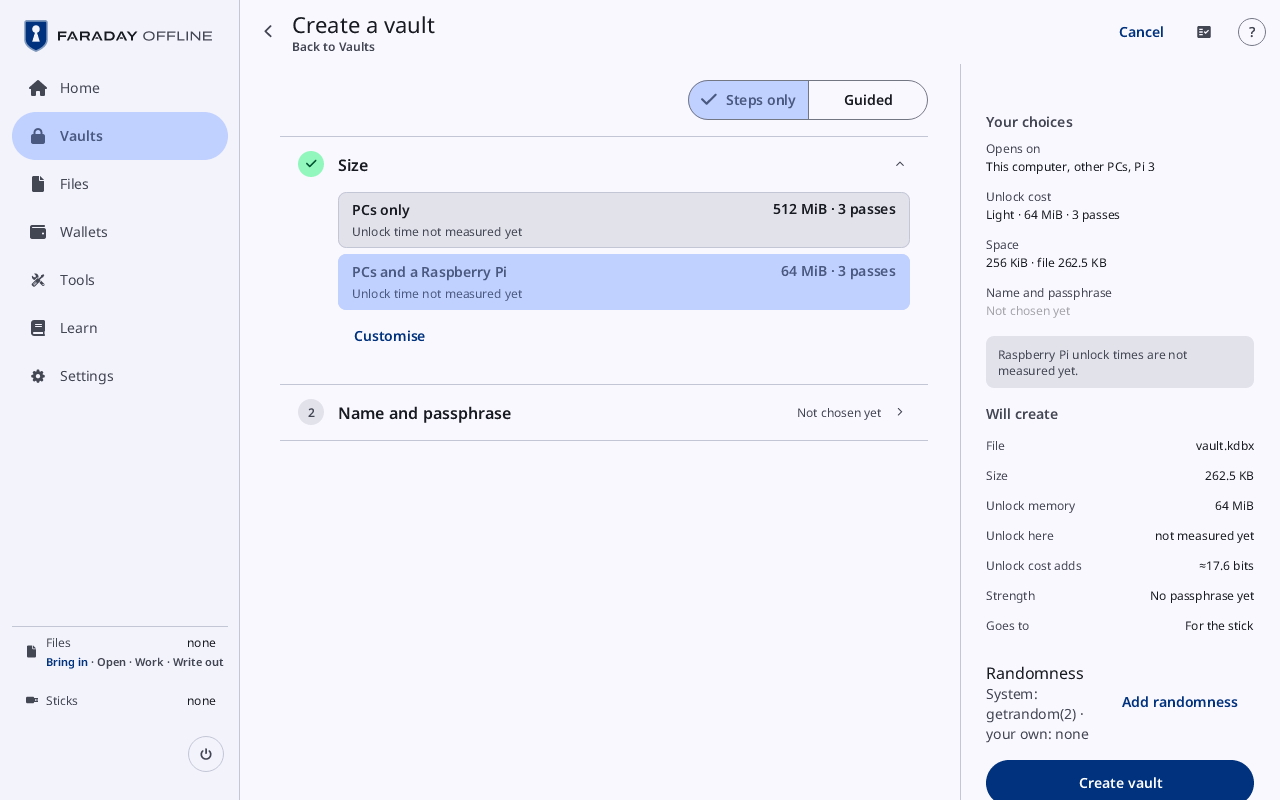
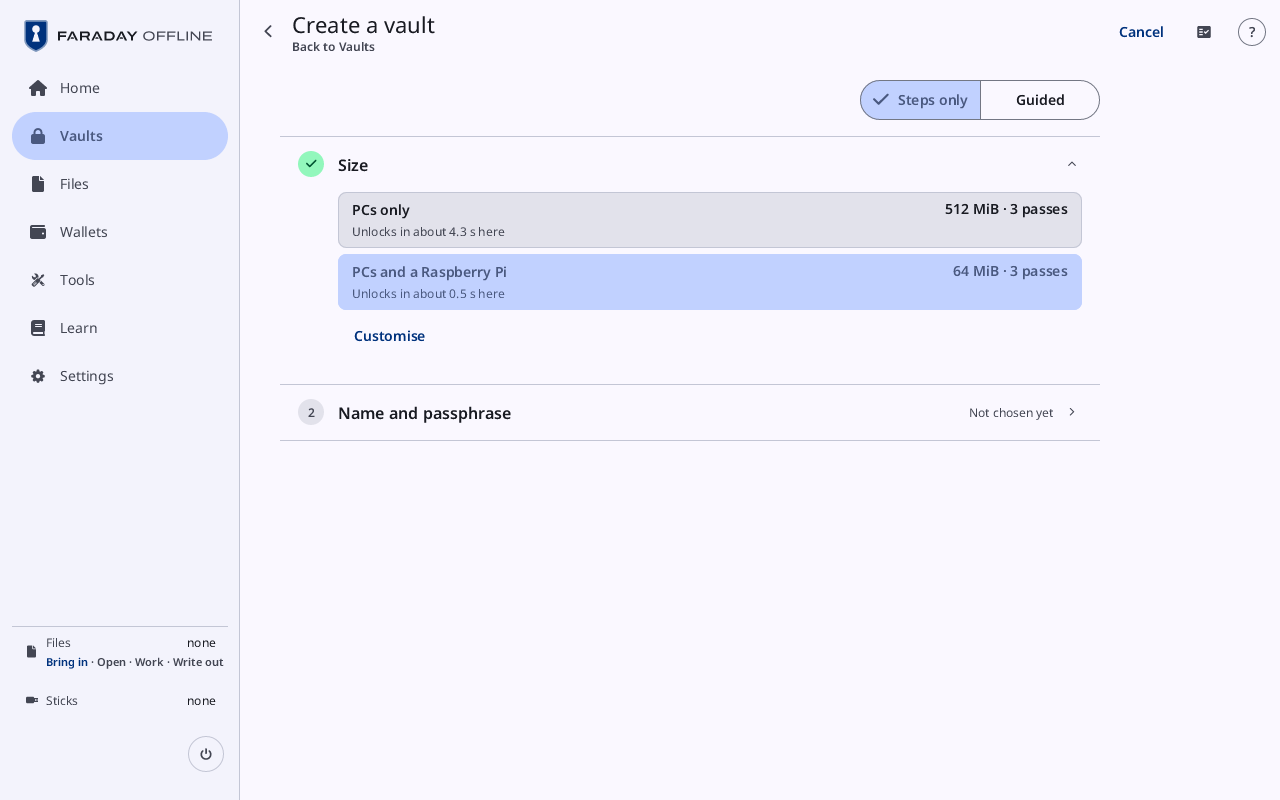
A lock wipes and drops the signing page's kept file text, and a measuring pass that cannot run records no unlock time; the Pi's two kernel patches of Faraday's own are decided (F221), the writeback-off run on the panel is recorded, and the create-vault size picture shows the unlock times the tours n
Claude-Session: https://claude.ai/code/session_01Nu65ePTqc1bXgpG4Eiv1ke

diff --git a/faraday/faraday-core/src/vault/stretch.rs b/faraday/faraday-core/src/vault/stretch.rs
@@ -521,7 +521,8 @@ pub(crate) struct MeasureWork;
 
 /// The measurement's answer: the milliseconds the pass took.
 pub(crate) struct MeasureDone {
-    ms: u64,
+    /// None where the pass could not run: no figure is recorded.
+    ms: Option<u64>,
 }
 
 impl MeasureWork {
@@ -547,16 +548,22 @@ impl MeasureWork {
             size: Some(faraday_vault::file::SIZES[0]),
         };
         let from = std::time::Instant::now();
-        faraday_keys::vault::measure(c, &facts);
+        let ran = faraday_keys::vault::measure(c, &facts);
         let took = from.elapsed();
         work::note_vault_took(
             VaultAct::Measured,
             cost,
-            VaultEnded::Ran,
+            match &ran {
+                Ok(()) => VaultEnded::Ran,
+                Err(faraday_vault::file::Error::Memory(_)) => VaultEnded::NoMemory,
+                Err(_) => VaultEnded::Refused,
+            },
             work::vault_clock().map(|_| took),
         );
         MeasureDone {
-            ms: u64::try_from(took.as_millis()).unwrap_or(u64::MAX).max(1),
+            ms: ran
+                .ok()
+                .map(|()| u64::try_from(took.as_millis()).unwrap_or(u64::MAX).max(1)),
         }
     }
 }
@@ -583,6 +590,24 @@ pub(crate) fn measured(app: &mut Faraday, done: MeasureDone) -> bool {
     if app.vaults.state.ms_per_unit.is_some() {
         return false;
     }
-    app.vaults.state.ms_per_unit = Some(done.ms);
+    let Some(ms) = done.ms else {
+        return false;
+    };
+    app.vaults.state.ms_per_unit = Some(ms);
     true
+}
+
+#[cfg(test)]
+mod tests {
+    use super::*;
+
+    /// A pass that could not run leaves no time to show.
+    #[test]
+    fn a_failed_measuring_pass_records_no_figure() {
+        let mut app = Faraday::new();
+        assert!(!measured(&mut app, MeasureDone { ms: None }));
+        assert_eq!(app.vaults.state.ms_per_unit, None);
+        assert!(measured(&mut app, MeasureDone { ms: Some(900) }));
+        assert_eq!(app.vaults.state.ms_per_unit, Some(900));
+    }
 }

diff --git a/faraday/faraday-core/src/gpg.rs b/faraday/faraday-core/src/gpg.rs
@@ -197,6 +197,18 @@ pub struct SignWrap {
     lines: std::rc::Rc<[(usize, usize)]>,
 }
 
+impl Seen {
+    /// Drops every file the page remembers, wiping the texts.
+    pub(crate) fn drop_all(kept: &std::cell::RefCell<Vec<Seen>>) {
+        for e in kept.borrow_mut().iter_mut() {
+            if let Some(t) = e.text.as_mut() {
+                zeroize::Zeroize::zeroize(t);
+            }
+        }
+        kept.borrow_mut().clear();
+    }
+}
+
 impl SignWrap {
     /// The lines of `text` for `basis`, from `kept` when it holds them,
     /// else from `make`, which breaks the text, and then kept.
@@ -218,6 +230,19 @@ impl SignWrap {
             lines: lines.clone(),
         });
         lines
+    }
+
+    /// Drops every entry, wiping the text each was broken from.
+    pub(crate) fn drop_all(kept: &std::cell::RefCell<Vec<SignWrap>>) {
+        for e in kept.borrow_mut().iter_mut() {
+            zeroize::Zeroize::zeroize(&mut e.text);
+        }
+        kept.borrow_mut().clear();
+    }
+
+    /// How many entries are kept.
+    pub(crate) fn kept_count(kept: &std::cell::RefCell<Vec<SignWrap>>) -> usize {
+        kept.borrow().len()
     }
 
     /// Drops the entries of texts no file on the page has now.

diff --git a/faraday/faraday-core/src/vault/area.rs b/faraday/faraday-core/src/vault/area.rs
@@ -1983,6 +1983,19 @@ impl Vaults {
         self.code = None;
     }
 
+    /// At a lock: the signing page's kept texts (the files' text and the
+    /// lines broken from it) are wiped and dropped.
+    pub(crate) fn drop_sign_text(&self) {
+        crate::gpg::SignWrap::drop_all(&self.sign_wraps);
+        crate::gpg::Seen::drop_all(&self.sign_seen);
+    }
+
+    /// How many files' texts the signing page keeps: the lines broken from
+    /// each small text file and the files it remembers.
+    pub(crate) fn sign_text_kept(&self) -> usize {
+        crate::gpg::SignWrap::kept_count(&self.sign_wraps) + self.sign_seen.borrow().len()
+    }
+
     /// Closes every open vault, at a lock what is shown with them.
     pub fn close_all(&mut self) {
         self.drop_shown();

diff --git a/faraday/faraday-core/tests/all/gpg.rs b/faraday/faraday-core/tests/all/gpg.rs
@@ -1598,3 +1598,24 @@ fn signs_both(app: &mut Faraday, files: &[(String, Vec<u8>)]) {
     }
     assert_eq!(app.outbox.len(), before + files.len());
 }
+
+/// The text of a file on the signing page is not held after a lock.
+#[test]
+fn a_lock_leaves_none_of_a_signed_files_text_held() {
+    let mut app = signing();
+    let _ = app.frame();
+    assert!(
+        testkit::sign_text_kept(&app) > 0,
+        "the page holds the text it drew"
+    );
+    app.press(Action::Lock);
+    app.press(Action::LockUnsealed);
+    settle(&mut app, 1);
+    assert!(
+        app.restart_requested(),
+        "{:?} {:?}",
+        app.sheet,
+        app.toast_text()
+    );
+    assert_eq!(testkit::sign_text_kept(&app), 0);
+}

diff --git a/faraday/faraday-keys/src/vault.rs b/faraday/faraday-keys/src/vault.rs
@@ -3651,7 +3651,8 @@ pub fn create(
 }
 
 /// Costs an Argon2id run at the file's stated cost, thrown away: the time
-/// a vault's unlock takes on this computer, measured.
-pub fn measure(c: &Compute, facts: &fv::file::Facts) {
-    let _ = fv::file::measure(c, facts);
+/// a vault's unlock takes on this computer, measured. A pass that could
+/// not run (the memory is not there) is the error, with no time.
+pub fn measure(c: &Compute, facts: &fv::file::Facts) -> Result<(), fv::file::Error> {
+    fv::file::measure(c, facts)
 }

diff --git a/faraday/faraday-core/src/testkit.rs b/faraday/faraday-core/src/testkit.rs
@@ -2145,6 +2145,12 @@ pub fn select_wallet(app: &mut crate::Faraday, i: usize) {
     app.wallets.set_wallet(i);
 }
 
+/// How many files' texts the signing page holds (broken lines and files
+/// remembered).
+pub fn sign_text_kept(app: &crate::Faraday) -> usize {
+    app.vaults.sign_text_kept()
+}
+
 /// Puts `item` at the end of the Inbox.
 pub fn inbox_push(app: &mut crate::Faraday, item: crate::Item) {
     app.inbox.push(item);

diff --git a/faraday/faraday-core/src/vault/seal.rs b/faraday/faraday-core/src/vault/seal.rs
@@ -574,6 +574,8 @@ fn lock_finish(app: &mut Faraday) {
     app.session.wipe();
     // The charts and the backup list kept across moved frames.
     app.kept.charts_drop();
+    // The signing page's kept text of the Inbox's small files.
+    app.vaults.drop_sign_text();
     app.own_wipe();
     app.wallets.clear_spend();
     app.seed_read.clear();

diff --git a/faraday/image/README.md b/faraday/image/README.md
@@ -64,7 +64,7 @@ side through DRM with its framebuffer emulation, the sound core vc4 cannot
 build without (and no sound driver), the generic USB HID drivers, and USB
 storage and SCSI; the board's `kernel.required` and `kernel.forbidden`
 hold each of those to the PC's rules. It compiles the board's kernel
-source with the patches `docs/KERNEL-PATCHES.md` lists (F153, F205): vc4 binds the
+source with the patches `docs/KERNEL-PATCHES.md` lists (F153, F205, F221): vc4 binds the
 Pi 3's V3D and creates a render node, which
 `common/rootfs-overlay/etc/mdev.conf` gives to root alone with
 `/dev/dri/card0`, and DRM selects `KCMP`, which the Pi allows while the
@@ -321,7 +321,7 @@ is the point of it and useless when the question is why the panel is blank.
 | Firmware | On a Pi, `rpi-firmware`, the `PI_X` variant, so `start_x.elf` and `fixup_x.dat` are on the card. On the stick, none: the machine's own firmware runs the kernel, and no blob of any kind is in the image |
 | Root filesystem | An initramfs (cpio) linked into the kernel image. BusyBox `init`, one shell, `mdev`, `setpriv`, `setuidgid`, `poweroff`, and `/usr/bin/faraday`; nothing that finds a filesystem by its label or UUID (`findfs`, `blkid`, `volume_id`). No `/lib/*.so` |
 | The binary | Built on the host by `just faraday-pi-bin` with the board's toolchain, as a static executable, and installed by `package/faraday`. Buildroot never builds Rust |
-| Overlays | The Pi's screens' overlays are merged at build time by Raspberry Pi's `ovmerge` (`utils`, at a pinned commit and sha256) from the pinned kernel's overlay sources, and compiled by Buildroot's `dtc`; the 2.8-inch's touch overlay is a source file in its screen's directory, compiled by the same `dtc`. The Pi board also carries `faraday-txp-off.dts`, an overlay of Faraday's own that `config.txt` loads after `vc4-kms-v3d` to turn the video core's writeback block (the TXP) off again: vc4 binds it before the pixelvalves and the framebuffer's `FBIO_WAITFORVSYNC` waits on the first CRTC only, so with it the wait returns at once (`docs/FRAMES.md` §6). The board's `post-image.sh` compiles it into the boot partition's `overlays/`, and `build.sh` builds that `dtc` first. Not yet run on a panel |
+| Overlays | The Pi's screens' overlays are merged at build time by Raspberry Pi's `ovmerge` (`utils`, at a pinned commit and sha256) from the pinned kernel's overlay sources, and compiled by Buildroot's `dtc`; the 2.8-inch's touch overlay is a source file in its screen's directory, compiled by the same `dtc`. The Pi board also carries `faraday-txp-off.dts`, an overlay of Faraday's own that `config.txt` loads after `vc4-kms-v3d` to turn the video core's writeback block (the TXP) off again: vc4 binds it before the pixelvalves and the framebuffer's `FBIO_WAITFORVSYNC` waits on the first CRTC only, so with it the wait returns at once (`docs/FRAMES.md` §6). The board's `post-image.sh` compiles it into the boot partition's `overlays/`, and `build.sh` builds that `dtc` first. Run on the panel with the pixel clock at 22 MHz: the wait held a measured 16.68 ms, and a run showed no tearing to the eye |
 
 ### The kernel is the defconfig with its modules dropped
 

diff --git a/docs/DECISIONS.md b/docs/DECISIONS.md
@@ -167,7 +167,7 @@ Read this table, then only the decision you need.
 | [F150](decisions/F150.md) | The looser build is named Compatible, every HDMI screen shares one image, and the Pi 4 is built on the terms its reach asks | 2026-10-28 | Amended by F153, F185, F186 | release |
 | [F151](decisions/F151.md) | A review rule a change triggers is attested in the commit | 2026-10-28 | Active | repository |
 | [F152](decisions/F152.md) | Touch targets are tested over the snapshot tours, and a press cannot be made without its state layer | 2026-10-28 | Amended by F188 | design |
-| [F153](decisions/F153.md) | No kernel patch of Faraday's own on the Pi, and a new USB touchscreen approves itself by tapping a target: nothing is trusted by name | 2026-10-28 | Amended by F185, F202, F205 | security |
+| [F153](decisions/F153.md) | No kernel patch of Faraday's own on the Pi, and a new USB touchscreen approves itself by tapping a target: nothing is trusted by name | 2026-10-28 | Amended by F185, F202, F205, F221 | security |
 | [F154](decisions/F154.md) | Random bytes are taken from the source, an answer for every 32, or expanded by HKDF-Expand | 2026-10-28 | Active | security |
 | [F155](decisions/F155.md) | The other refusals of input a standard allows: keys, wallet files, PSBTs, transfers, shares, the vault and the paperkey | 2026-10-28 | Active | crypto |
 | [F156](decisions/F156.md) | Schnorr signatures are made with zero aux_rand | 2026-10-28 | Active | security |
@@ -235,3 +235,4 @@ Read this table, then only the decision you need.
 | [F218](decisions/F218.md) | The list of what was plugged in at start can be dismissed, by its × or Escape, never by a held device | 2026-11-05 | Active | security |
 | [F219](decisions/F219.md) | KEF, Krux's encrypted code, enters Faraday, all twelve versions read and written, checked against Krux's code and not on a device | 2026-11-05 | Active, the crate built and the screens not | crypto |
 | [F220](decisions/F220.md) | What a cosigner's partial MuSig2 signature proves on the device | 2026-11-05 | Active | security |
+| [F221](decisions/F221.md) | Two more kernel patches of Faraday's own on the Pi: a 32-bit framebuffer with red first, and vc4's output polling stopped on unbind | 2026-11-06 | Active | security |

diff --git a/docs/decisions/F221.md b/docs/decisions/F221.md
@@ -1,0 +1,39 @@
+# F221 Two more kernel patches of Faraday's own on the Pi: a 32-bit framebuffer with red first, and vc4's output polling stopped on unbind (2026-11-06)
+
+**Kind:** Record
+**Status:** Active
+**Area:** security
+**Held by:** review
+
+*Makes two more exceptions to F153's "No kernel patch of Faraday's own", as F205 made one: the rest of that rule stands.*
+
+**Why.** Two things on the Pi could not be had without changing the kernel.
+
+- The app's frame is red first, and vc4's framebuffer was 16 bits, so the
+  shell converted every changed pixel on the CPU before each write, and the
+  screen showed 5 or 6 bits a colour. A 32-bit framebuffer with red first is
+  written as it is. Measured on a Pi 3B+, conversion and write together, in
+  separate runs: about 3.1 ms to 2.3 ms a write on the 2.8-inch panel and about
+  21.9 ms to 18.7 ms at 1080p, and 8 bits a colour.
+- vc4 starts the output poll's delayed work and never stops it. The Pi's boot
+  unbinds and binds vc4 again to bring up the DPI panel, which frees the device
+  while the timer is pending, so a Pi with the 2.8-inch panel panicked about
+  13 s after power-on.
+
+**Decision** (owner, 2026-11-06; `docs/KERNEL-PATCHES.md`, `docs/IMAGES.md`
+§3.2).
+
+1. **The Pi carries these two patches of Faraday's own**
+   (`faraday/image/boards/pi3/linux-patches/0003-…` and `0004-…`).
+   0003 makes vc4's framebuffer emulation 32 bits and red first, and the
+   changes it needs in the generic framebuffer emulation and the DRM client.
+   0004 stops vc4's output polling when the driver unbinds. Neither adds a
+   device node, command, permission or interface: the app writes `/dev/fb0` as
+   before.
+2. **No network code** goes into the kernel for either.
+3. **Each goes when it is no longer needed:** 0003 when a kernel the Pi moves
+   to lets vc4 ask for this format itself, or if the shell goes back to
+   converting each frame; 0004 when a kernel the Pi moves to stops the poll
+   itself, or the boot no longer unbinds vc4. Any kernel update has to carry
+   them or show they are not needed.
+4. **Any other kernel patch of Faraday's own needs its own decision** (F153).

diff --git a/docs/FRAMES.md b/docs/FRAMES.md
@@ -587,8 +587,7 @@ motion carried a new frame" is `carried_pct` when the grid's step is one
 frame; at a step of two it is about 50 by design, and `missed` is the
 number to read.
 
-**Which CRTC the wait follows** *(Built in the image; not yet run on a
-panel)*. `drm_fb_helper_ioctl` waits on the first CRTC of the device
+**Which CRTC the wait follows** *(Built in the image; run on the panel)*. `drm_fb_helper_ioctl` waits on the first CRTC of the device
 only, and when that CRTC is not enabled it returns 0 at once; the first
 CRTC is the first one vc4 created (`drm_for_each_crtc`). vc4 binds the
 TXP, the video core's writeback block, before the pixelvalves, and
@@ -605,6 +604,11 @@ device and is not among vc4's components. Nothing in Faraday uses
 writeback. The first CRTC is then the first pixelvalve, `3f206000`,
 which feeds the DPI panel. An HDMI screen is on the third pixelvalve and
 is not the first CRTC, so its wait stays off as before.
+
+With the writeback off, the wait has run on the 2.8-inch panel at the 22 MHz
+pixel clock: it held a measured 16.68 ms, and a run showed no tearing to the
+eye. In that run 64% of the frames that moved were shown at one refresh and
+27% at two.
 
 **A window on a larger screen** *(Built; its figure on a card is not yet
 taken)*. `faraday.window=WxH` on the kernel command line draws in a

diff --git a/docs/KERNEL-PATCHES.md b/docs/KERNEL-PATCHES.md
@@ -12,15 +12,15 @@ the kernel can reach".
 
 A patch of Faraday's own is code nobody else runs that way, carried by hand
 through every kernel update. F153 set the rule against them, F205 made one
-exception and says any other needs a decision of its own. 0003 and 0004 on
-the Pi have none yet.
+exception and F221 two more, and each says any other needs a decision of its
+own.
 
 | Board | Patch | What it does | From | Decision |
 |---|---|---|---|---|
 | Pi | 0001 | A failed EDID read gives fallback modes, not an error | Mainline | F205 names it |
 | Pi | 0002 | A failed read of a later EDID block keeps the blocks before it | Faraday's own | F205 |
-| Pi | 0003 | vc4's framebuffer is 32 bits with red first | Faraday's own | None yet |
-| Pi | 0004 | vc4 stops output polling when it unbinds | Faraday's own | None yet |
+| Pi | 0003 | vc4's framebuffer is 32 bits with red first | Faraday's own | F221 |
+| Pi | 0004 | vc4 stops output polling when it unbinds | Faraday's own | F221 |
 | PC | 0001 to 0005 | The EFI stub puts the screen's EDID in `boot_params` | Mainline, Linux 6.19 | F23 |
 
 ## The Pi
